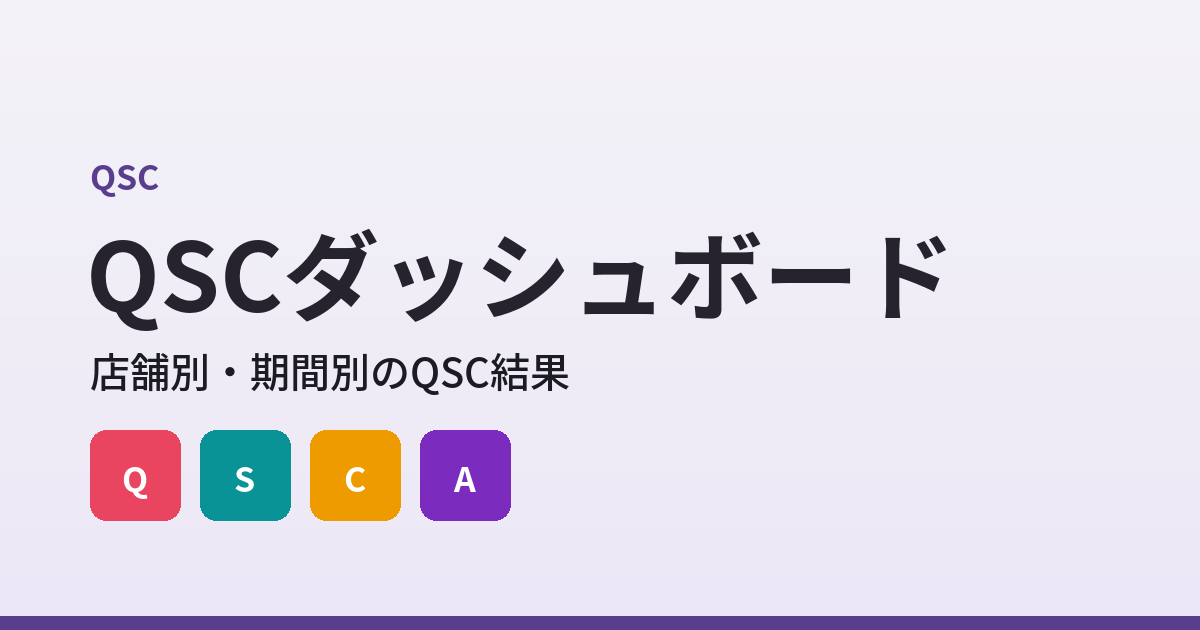
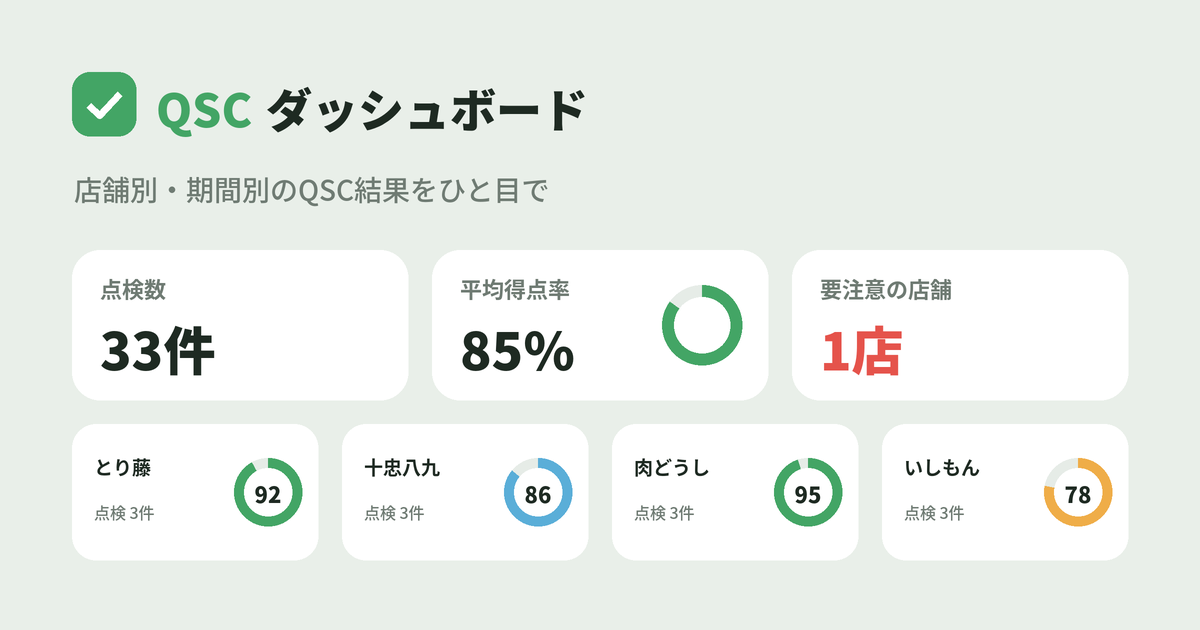
LINEなどのプレビュー画像とアイコンを新しい配色に変更
Claude-Session: https://claude.ai/code/session_01CVuujSZ8LK3VnY8WXJ99nM

diff --git a/index.html b/index.html
@@ -9,7 +9,7 @@
 <meta property="og:title" content="QSCチェックシート">
 <meta property="og:description" content="店舗のQSC（クオリティ・サービス・クレンリネス・アトモスフィア）をスマホでチェックして、結果をそのまま本部に送れます。">
 <meta property="og:url" content="https://okumurashingo.github.io/qsc-check/">
-<meta property="og:image" content="https://okumurashingo.github.io/qsc-check/ogp.png">
+<meta property="og:image" content="https://okumurashingo.github.io/qsc-check/ogp.png?v=2">
 <meta property="og:image:width" content="1200">
 <meta property="og:image:height" content="630">
 <meta name="twitter:card" content="summary_large_image">

diff --git a/dash/index.html b/dash/index.html
@@ -9,7 +9,7 @@
 <meta property="og:title" content="QSCダッシュボード">
 <meta property="og:description" content="QSCチェックの結果を店舗別・期間別に集計した本部向けダッシュボードです。">
 <meta property="og:url" content="https://okumurashingo.github.io/qsc-check/dash/">
-<meta property="og:image" content="https://okumurashingo.github.io/qsc-check/ogp-dash.png">
+<meta property="og:image" content="https://okumurashingo.github.io/qsc-check/ogp-dash.png?v=2">
 <meta property="og:image:width" content="1200">
 <meta property="og:image:height" content="630">
 <meta name="twitter:card" content="summary_large_image">
